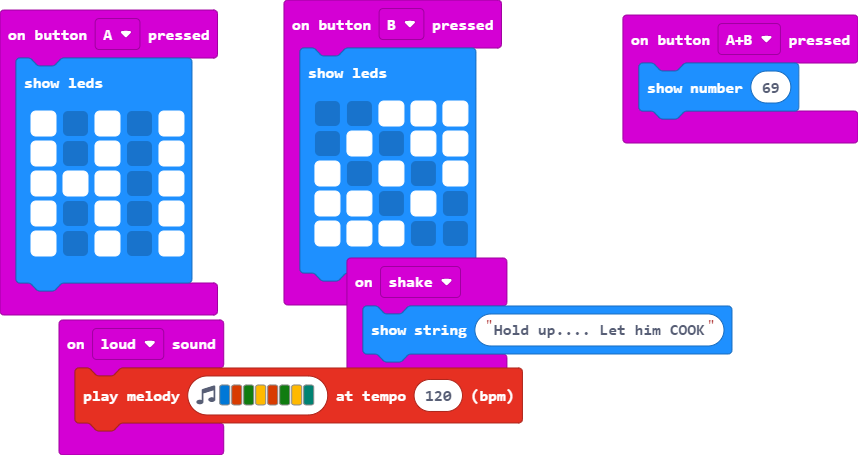
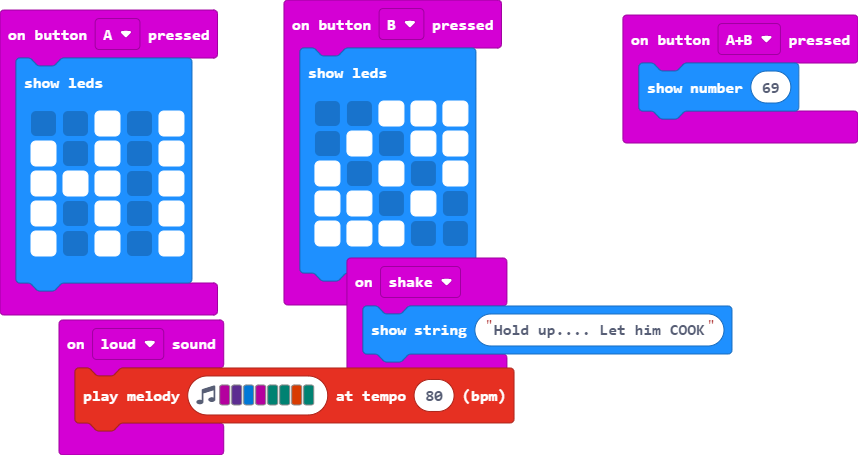
Update main.blocks, main.ts

Changed region(s): [[0.4848, 0.8, 0.6364, 0.9231], [0.2424, 0.8308, 0.3636, 0.8923], [0.0303, 0.2154, 0.0909, 0.3077]]

diff --git a/main.ts b/main.ts
@@ -1,6 +1,6 @@
 input.onButtonPressed(Button.A, function () {
     basic.showLeds(`
-        # . # . #
+        . . # . #
         # . # . #
         # # # . #
         # . # . #
@@ -8,7 +8,7 @@ input.onButtonPressed(Button.A, function () {
         `)
 })
 input.onSound(DetectedSound.Loud, function () {
-    music.playMelody("E B G A B G A F ", 120)
+    music.playMelody("C D E C F F B F ", 80)
 })
 input.onButtonPressed(Button.AB, function () {
     basic.showNumber(69)
